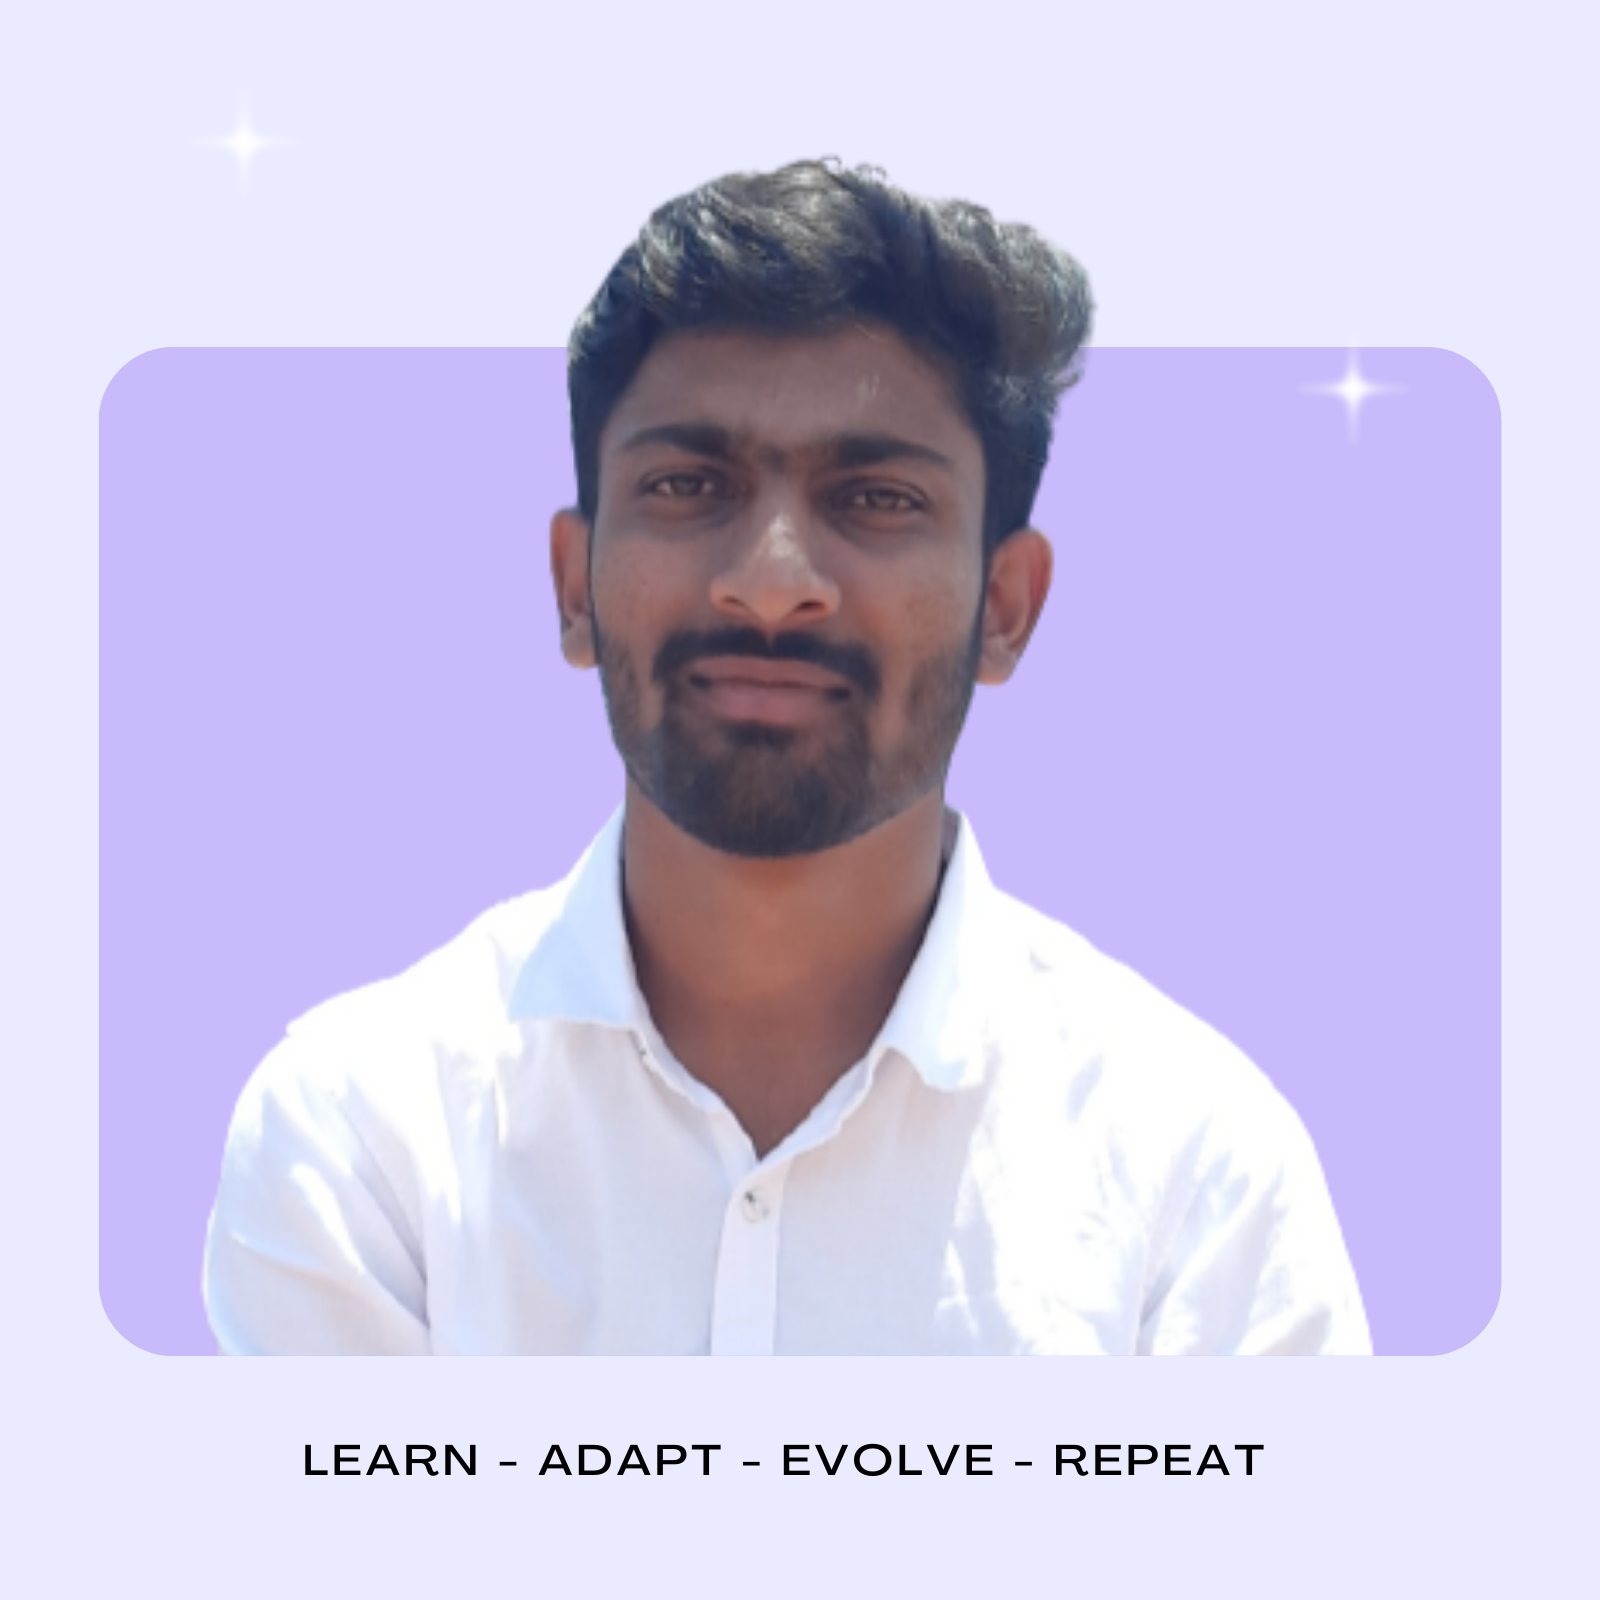
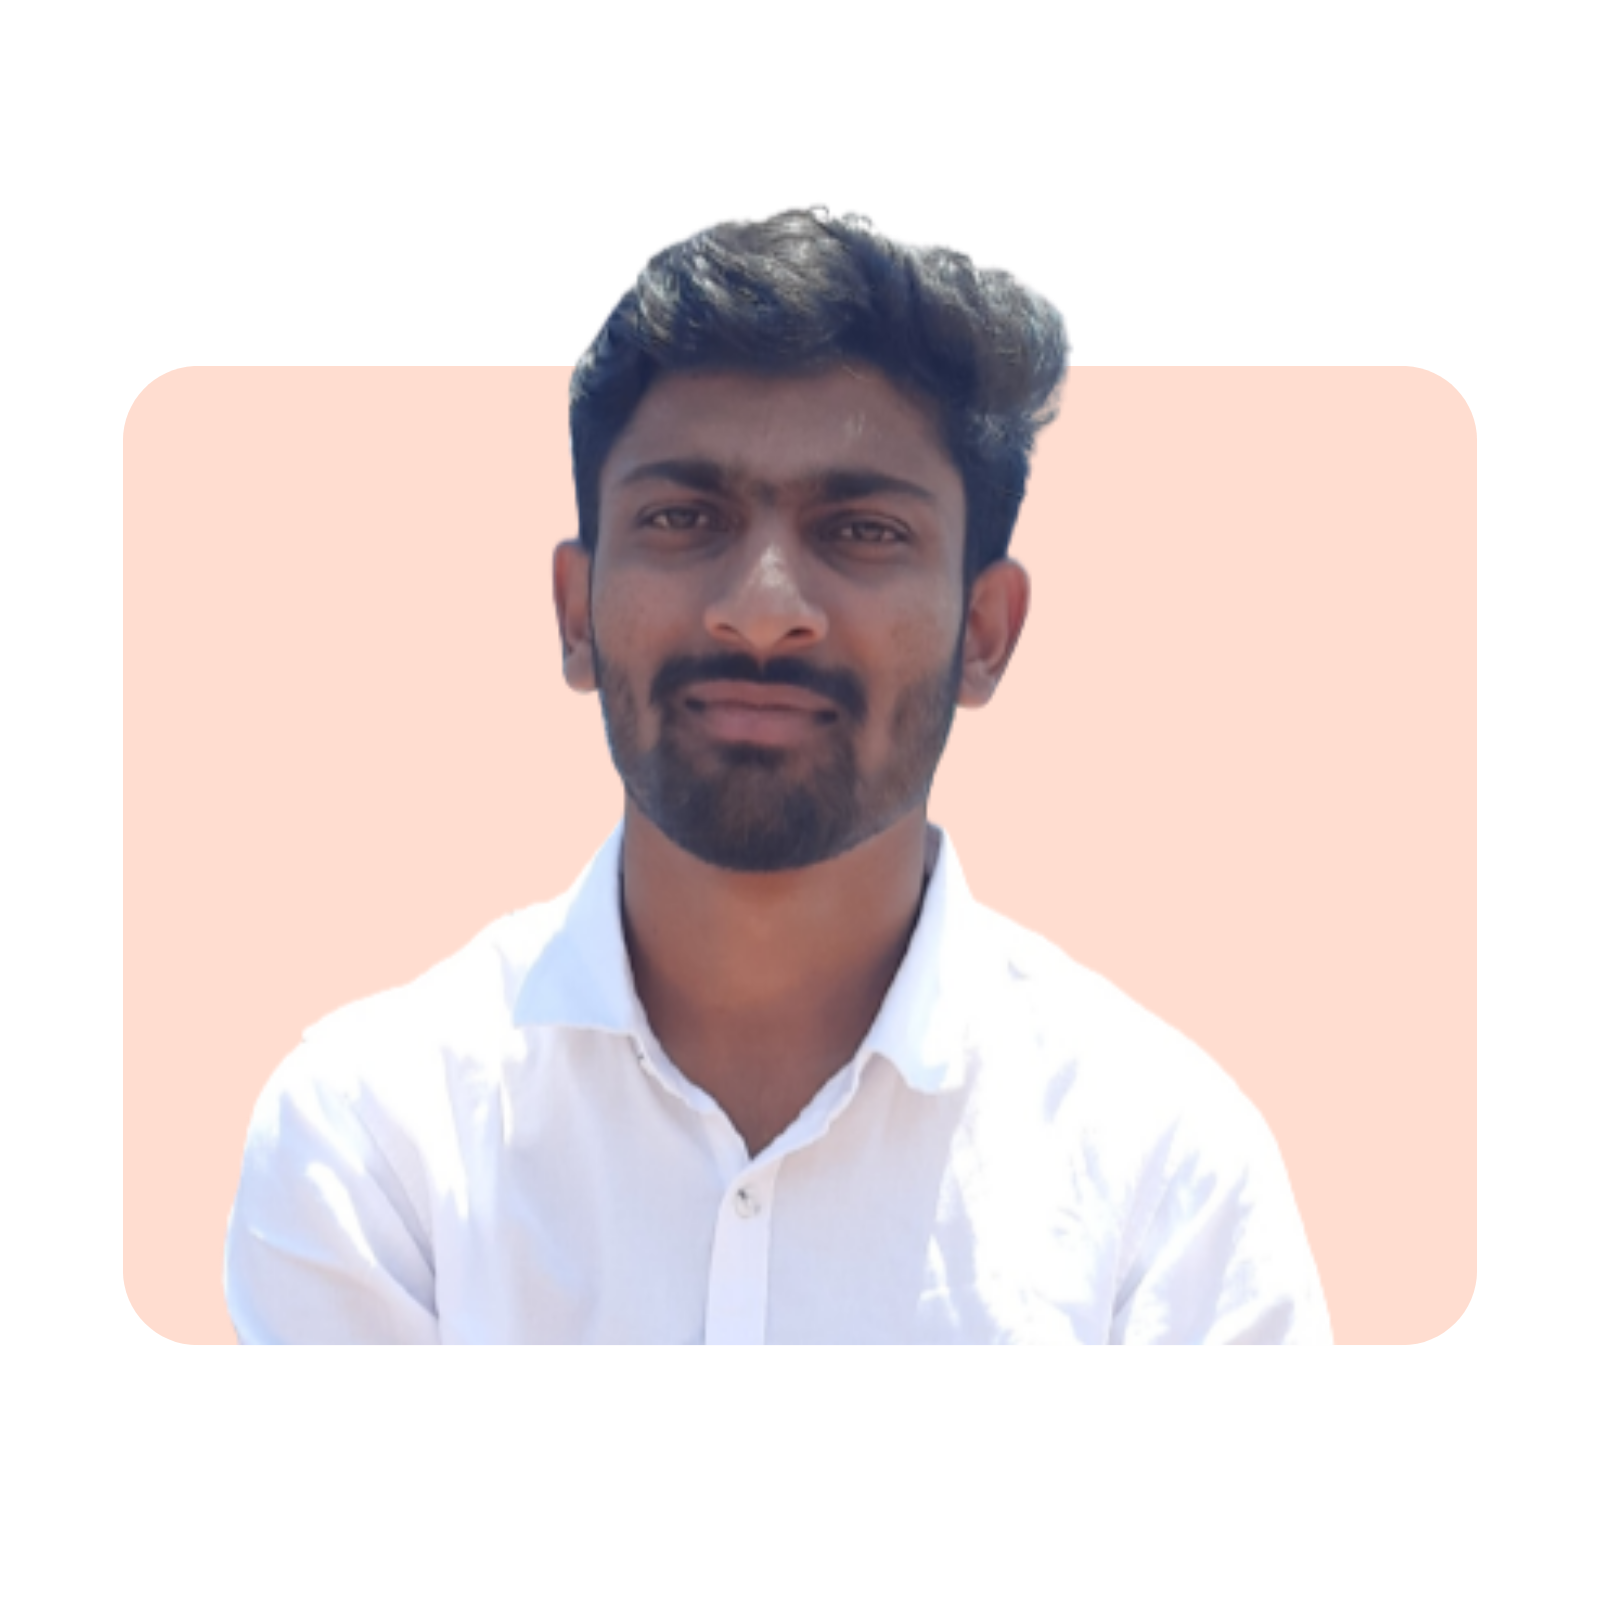
changed bg color

diff --git a/src/components/About/About.css b/src/components/About/About.css
@@ -55,11 +55,11 @@
   }
   .about__title {
     font-size: var(--size-5xl);
-    color: whitesmoke;
+    color: var(--clr-medium);
   }
   .about__desc {
     font-size: var(--size-sm);
-    color: white;
+    color: var(--clr-medium);
     line-height: 1.6;
   }
   .about__box {
@@ -72,5 +72,12 @@
 @media (min-width: 1024px) {
   .about__title {
     font-size: var(--size-7xl);
+    color: whitesmoke;
+  }
+  .about__desc {
+    font-size: var(--size-base);
+    /* color: var(--clr-medium); */
+    color: whitesmoke;
+    line-height: 1.5;
   }
 }

diff --git a/src/components/Hero/Hero.css b/src/components/Hero/Hero.css
@@ -29,8 +29,14 @@
   cursor: pointer;
 }
 .hero-icon-sm {
-  font-size: 1rem;
+  font-size: 1.5rem;
 }
+/* .icon-link {
+  color: white;
+  padding: 0.2rem;
+  border-radius: 0.3rem;
+  background-color: var(--clr-span);
+} */
 .icon-link:nth-child(1) {
   background-color: lightblue;
   color: white;
@@ -140,8 +146,8 @@
     font-size: var(--size-3xl);
   }
   .hero__main-img {
-    width: 20rem;
-    height: 23rem;
+    width: 21rem;
+    height: 24.5rem;
     border-radius: 1rem;
   }
 }

diff --git a/src/components/Header/Header.css b/src/components/Header/Header.css
@@ -41,9 +41,6 @@
 .header__logo-2 {
   background-color: lightsalmon;
 }
-.header__links {
-  display: none;
-}
 .header__link {
   text-decoration: none;
   text-transform: uppercase;
@@ -51,13 +48,6 @@
   font-weight: 400;
   color: var(--clr-medium);
   letter-spacing: var(--letter-space);
-}
-
-@media (min-width: 475px) {
-  .header__links {
-    display: flex;
-    column-gap: 0.75rem;
-  }
 }
 @media (min-width: 640px) {
   .header__logo,

diff --git a/src/components/Hero/Hero.jsx b/src/components/Hero/Hero.jsx
@@ -1,8 +1,8 @@
 import React from "react";
 import { AiFillGithub, AiFillLinkedin } from "react-icons/ai";
 import { BiLogoGmail } from "react-icons/bi";
-import HeroImg from "../../assets/Abishek-profile-v1.png";
-
+// import HeroImg from "../../assets/Abishek-profile-v2.png";
+import HeroImg from "../../assets/Abishek-profile-v3.png";
 import "./Hero.css";
 
 const Hero = () => {

diff --git a/src/App.css b/src/App.css
@@ -6,8 +6,9 @@
   --clr-primary: #fff;
   --clr-medium: #333333;
   --clr-base: #757575;
-  --clr-span: #a987ff;
-  --clr-span-bg: #a987ff;
+  --clr-span: lightsalmon;
+  /* --clr-span-bg: rgb(255, 169, 135); */
+  --clr-span-bg: rgb(255, 178, 147);
 
   /* --clr-span-logo: #1b363f; */
   /* --clr-span: #1b363f;

diff --git a/src/components/About/About.jsx b/src/components/About/About.jsx
@@ -1,5 +1,6 @@
 import React from "react";
-import HeroImg from "../../assets/6.png";
+// import HeroImg from "../../assets/6.png";
+import HeroImg from "../../assets/8.png";
 import "./About.css";
 
 const About = () => {

diff --git a/src/components/Projects/Projects.css b/src/components/Projects/Projects.css
@@ -28,7 +28,6 @@
   gap: 0.5rem;
   padding: 0.5rem 1rem;
   border-radius: 0.3rem;
-  /* background-color: var(--clr-span); */
   background-color: #1b363f;
   color: var(--clr-primary);
 }
